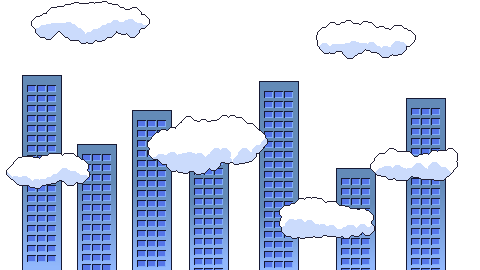
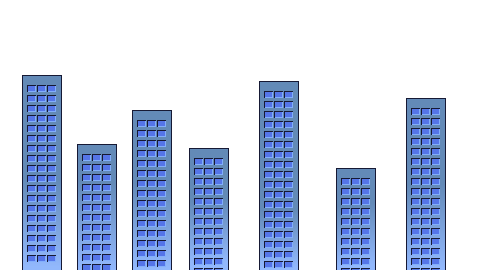
Added parallax

diff --git a/game/core/engine.cpp b/game/core/engine.cpp
@@ -53,6 +53,7 @@ void Engine::init()
   
   gameplayDrawTexture = SDL_CreateTexture(renderer, SDL_PIXELFORMAT_ARGB8888, SDL_TEXTUREACCESS_TARGET, gameplayDrawWidth, gameplayDrawHeight);
   background = IMG_LoadTexture(renderer, "Assets/Background1.png");
+  clouds = IMG_LoadTexture(renderer, "Assets/clouds.png");
   SDL_QueryTexture(background, NULL, NULL, &backgroundWidth, &backgroundHeight);
 }
 
@@ -96,8 +97,14 @@ void Engine::run()
     for (int x=0; x<4; x++)
     {
       memcpy(scaledBackgroundPoints, backgroundVerts, sizeof(backgroundVerts));
+      transformVerticies(scaledBackgroundPoints, 4, backgroundHeight/9.0f, (int)-camera.x*0.25f+x*backgroundWidth, backgroundHeight*0.3f);
+      SDL_RenderGeometry(renderer, clouds, scaledBackgroundPoints, 4, backgroundIndices, 6);
+      memcpy(scaledBackgroundPoints, backgroundVerts, sizeof(backgroundVerts));
       transformVerticies(scaledBackgroundPoints, 4, backgroundHeight/9.0f, (int)-camera.x*0.5f+x*backgroundWidth, 0);
       SDL_RenderGeometry(renderer, background, scaledBackgroundPoints, 4, backgroundIndices, 6); 
+      transformVerticies(scaledBackgroundPoints, 4, 1, (int)-camera.x*0.25f, 0);
+      SDL_RenderGeometry(renderer, clouds, scaledBackgroundPoints, 4, backgroundIndices, 6);
+      
     }
     
     level.draw(renderer, 0, 0, camera.x, camera.y);

diff --git a/game/core/engine.hpp b/game/core/engine.hpp
@@ -18,6 +18,7 @@ class Engine {
   SDL_Texture* atlas;
   SDL_Texture* gameplayDrawTexture;
   SDL_Texture* background;
+  SDL_Texture* clouds;
   std::chrono::steady_clock::time_point last_frame_time;
   std::chrono::duration<double, std::ratio<1, 240>> frame_time {1};
   int gameplayDrawScale = 2;
